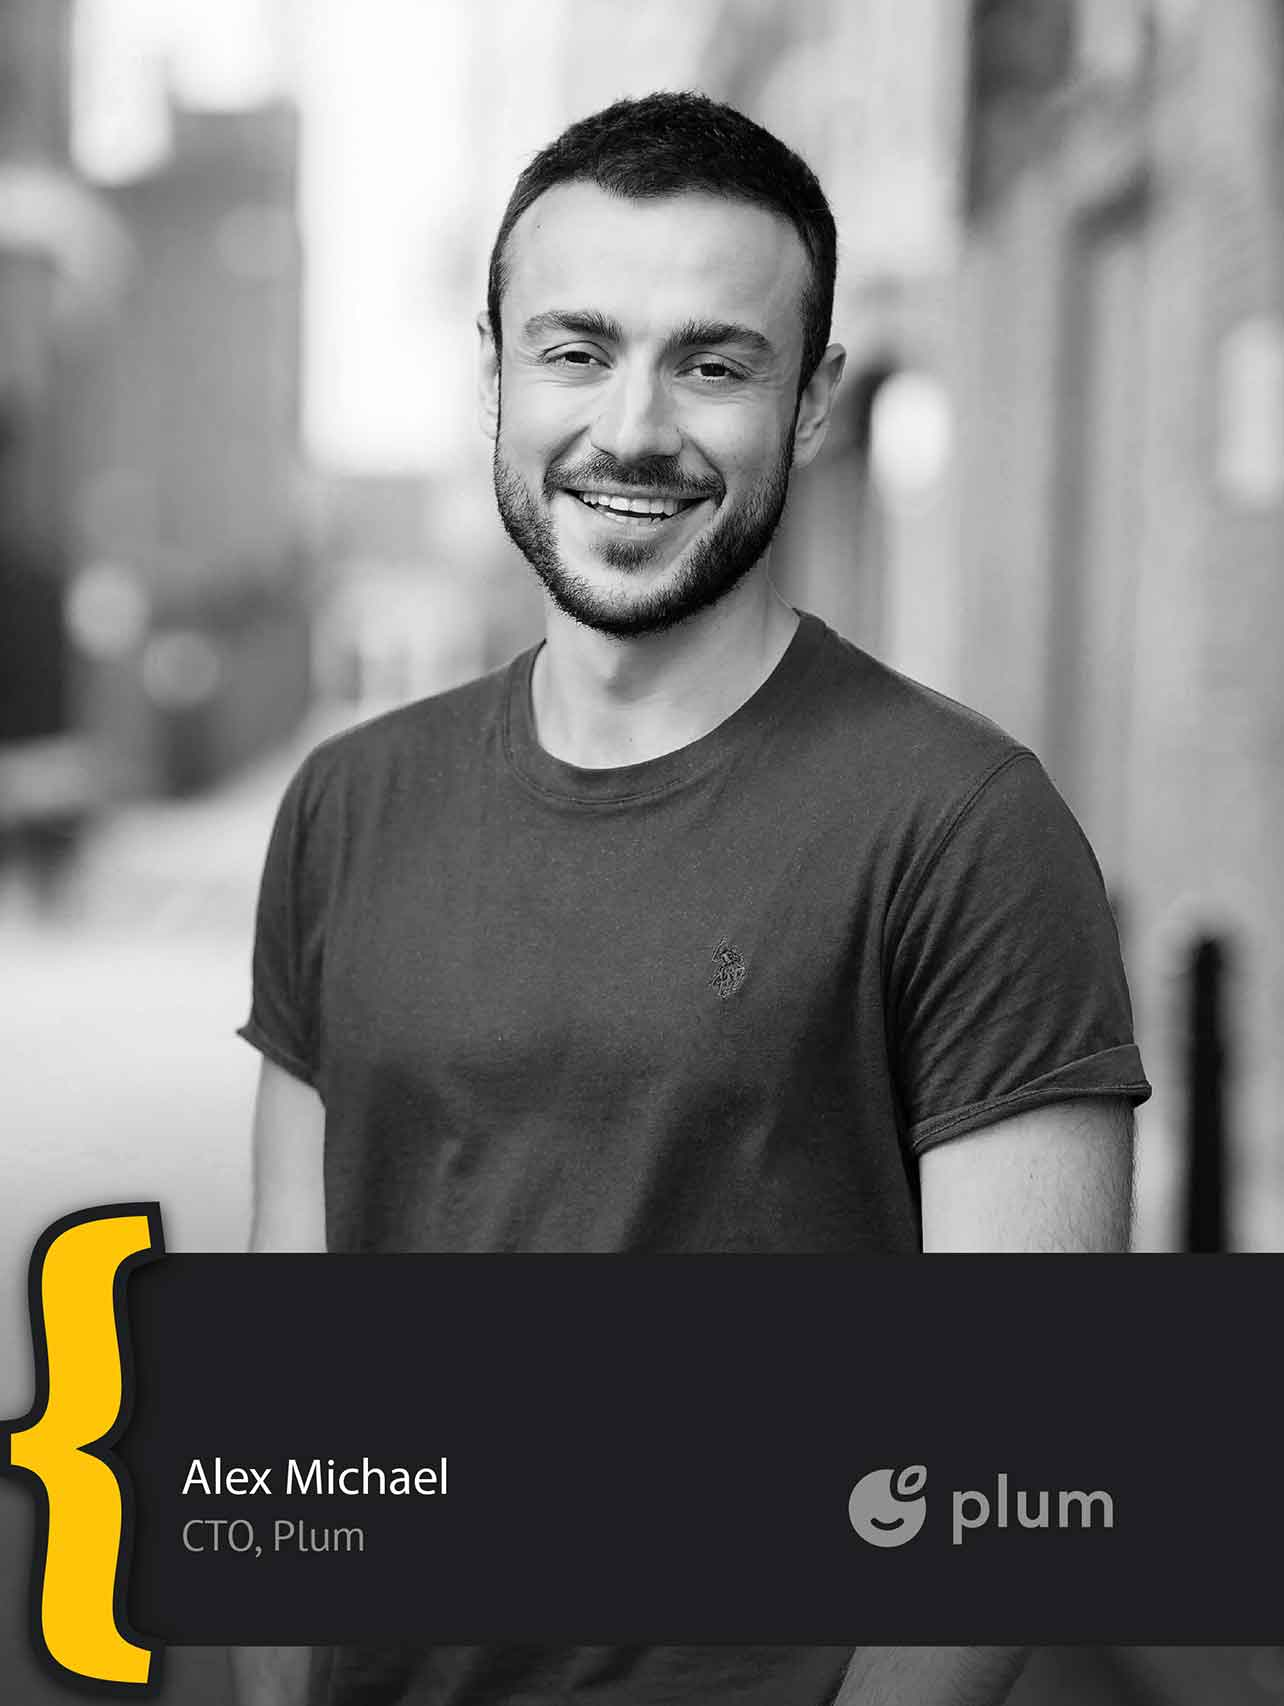
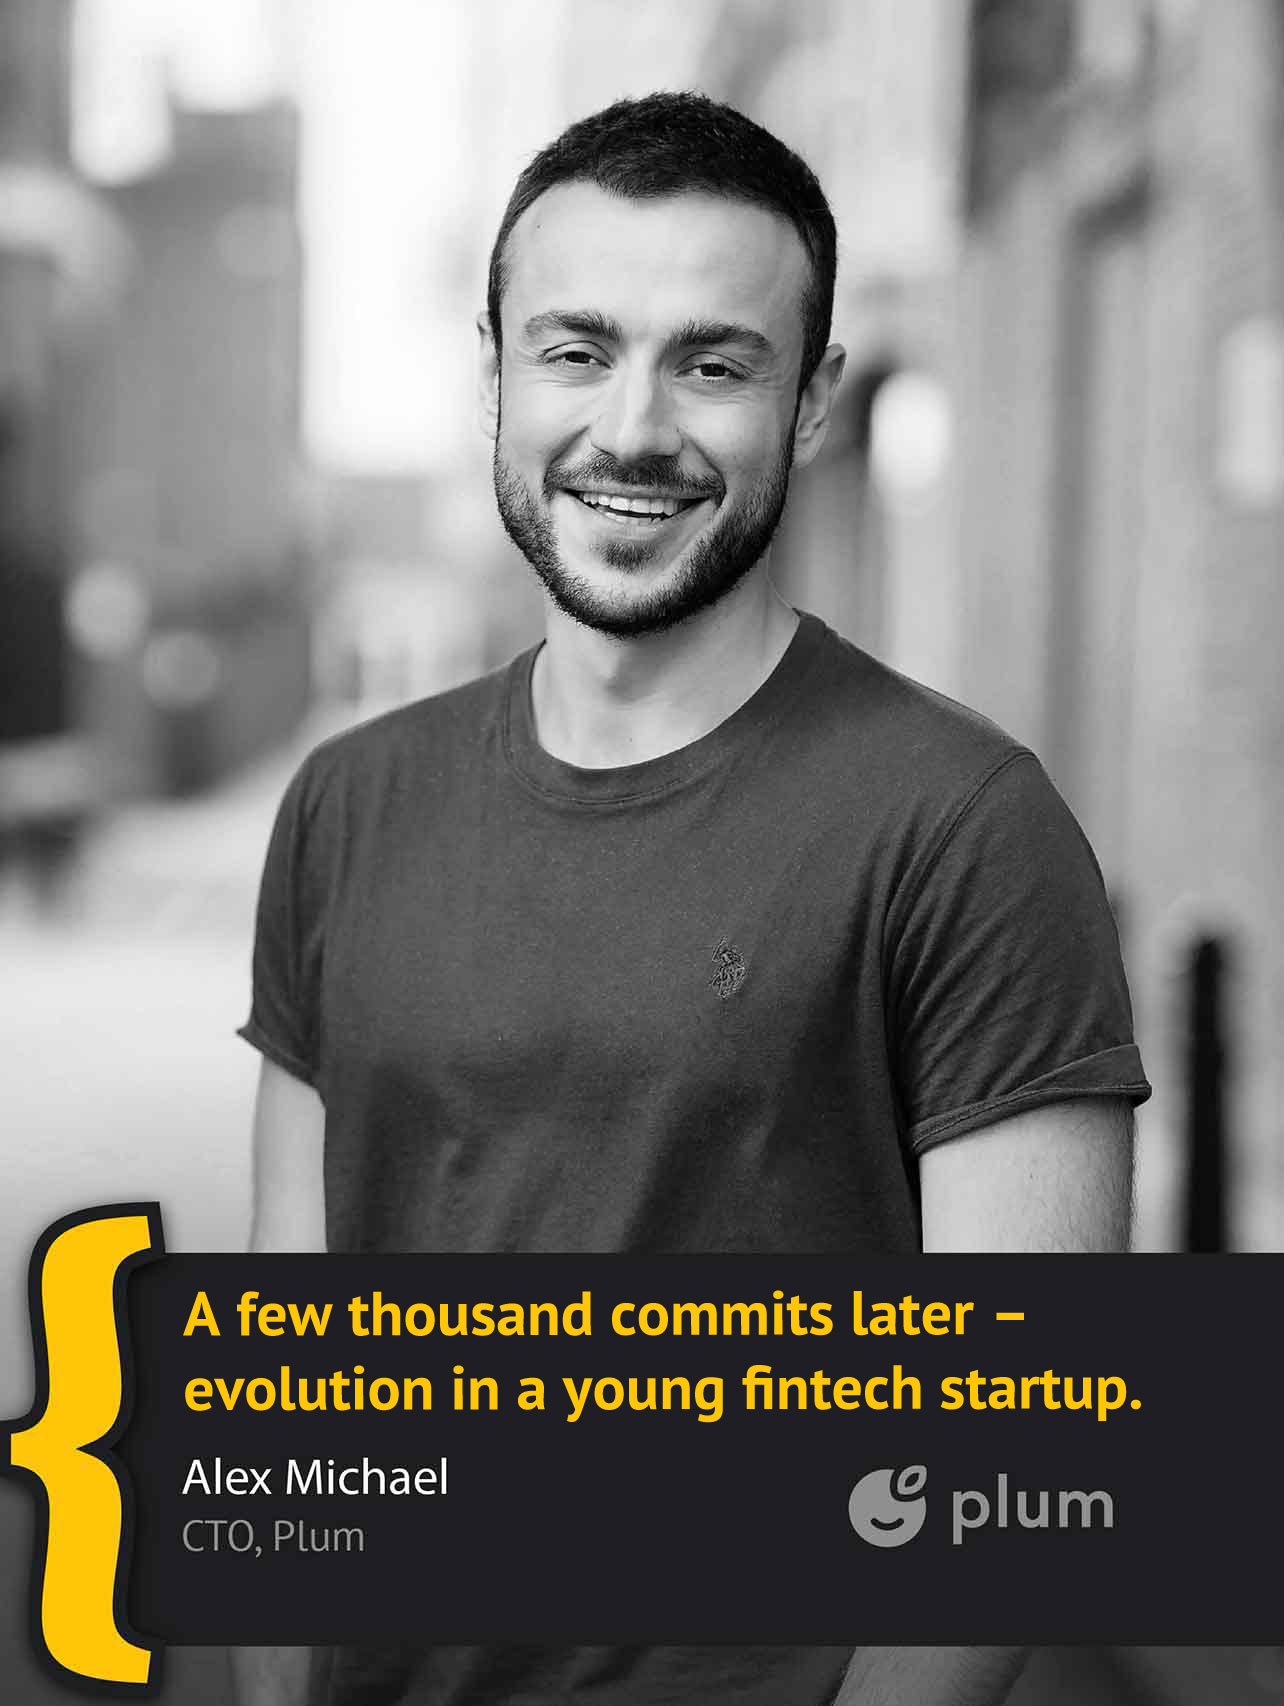
alex updated

Changed region(s): [[0.1246, 0.7456, 0.9034, 0.8388]]

diff --git a/index.html b/index.html
@@ -516,7 +516,7 @@ practical and theoretical knowledge to an audience hungry to learn.">
         <div class="modal-content">
             <img src="assets/img/speakers/modal/alex.jpg">
             <div class="header">
-                <h4><span>{</span></h4>
+                <h4><span>{</span>A few thousand commits later – evolution in a young fintech startup.</h4>
                 <h6> Alex Michael
                 </h6>
                 <p> CTO, Plum</p>
@@ -526,6 +526,10 @@ practical and theoretical knowledge to an audience hungry to learn.">
                     Alex is a co-founder and CTO at Plum, where he oversees the technical direction of the product. He is the former payments lead at Tictail. He joined Tictail as engineer #5, built the platform and team that handled payment processing for 150,000 shops and watched the company grow to 60 people with offices in Stockholm and NYC. Prior to Tictail, he built software for retail data analytics, social networks, sports and Bloomberg. He is also the co-founder of Hack Cyprus, a tech movement in Cyprus which runs hackathons and coding schools for youngsters who want to learn how to code. He has an MEng in Computing from Imperial College London.
 
                 </p>
+                <p><b>Talk Summary:</b>This talk will discuss the evolution in a young fintech startup on<br>
+                    - Moving money around<br>
+                - Code & architecture<br>
+                - Team / Hiring</p>
                 <div class="social">
 
                     <a href="https://twitter.com/alexismic" target="_blank"><i class="fa fa-twitter-square"></i></a>
